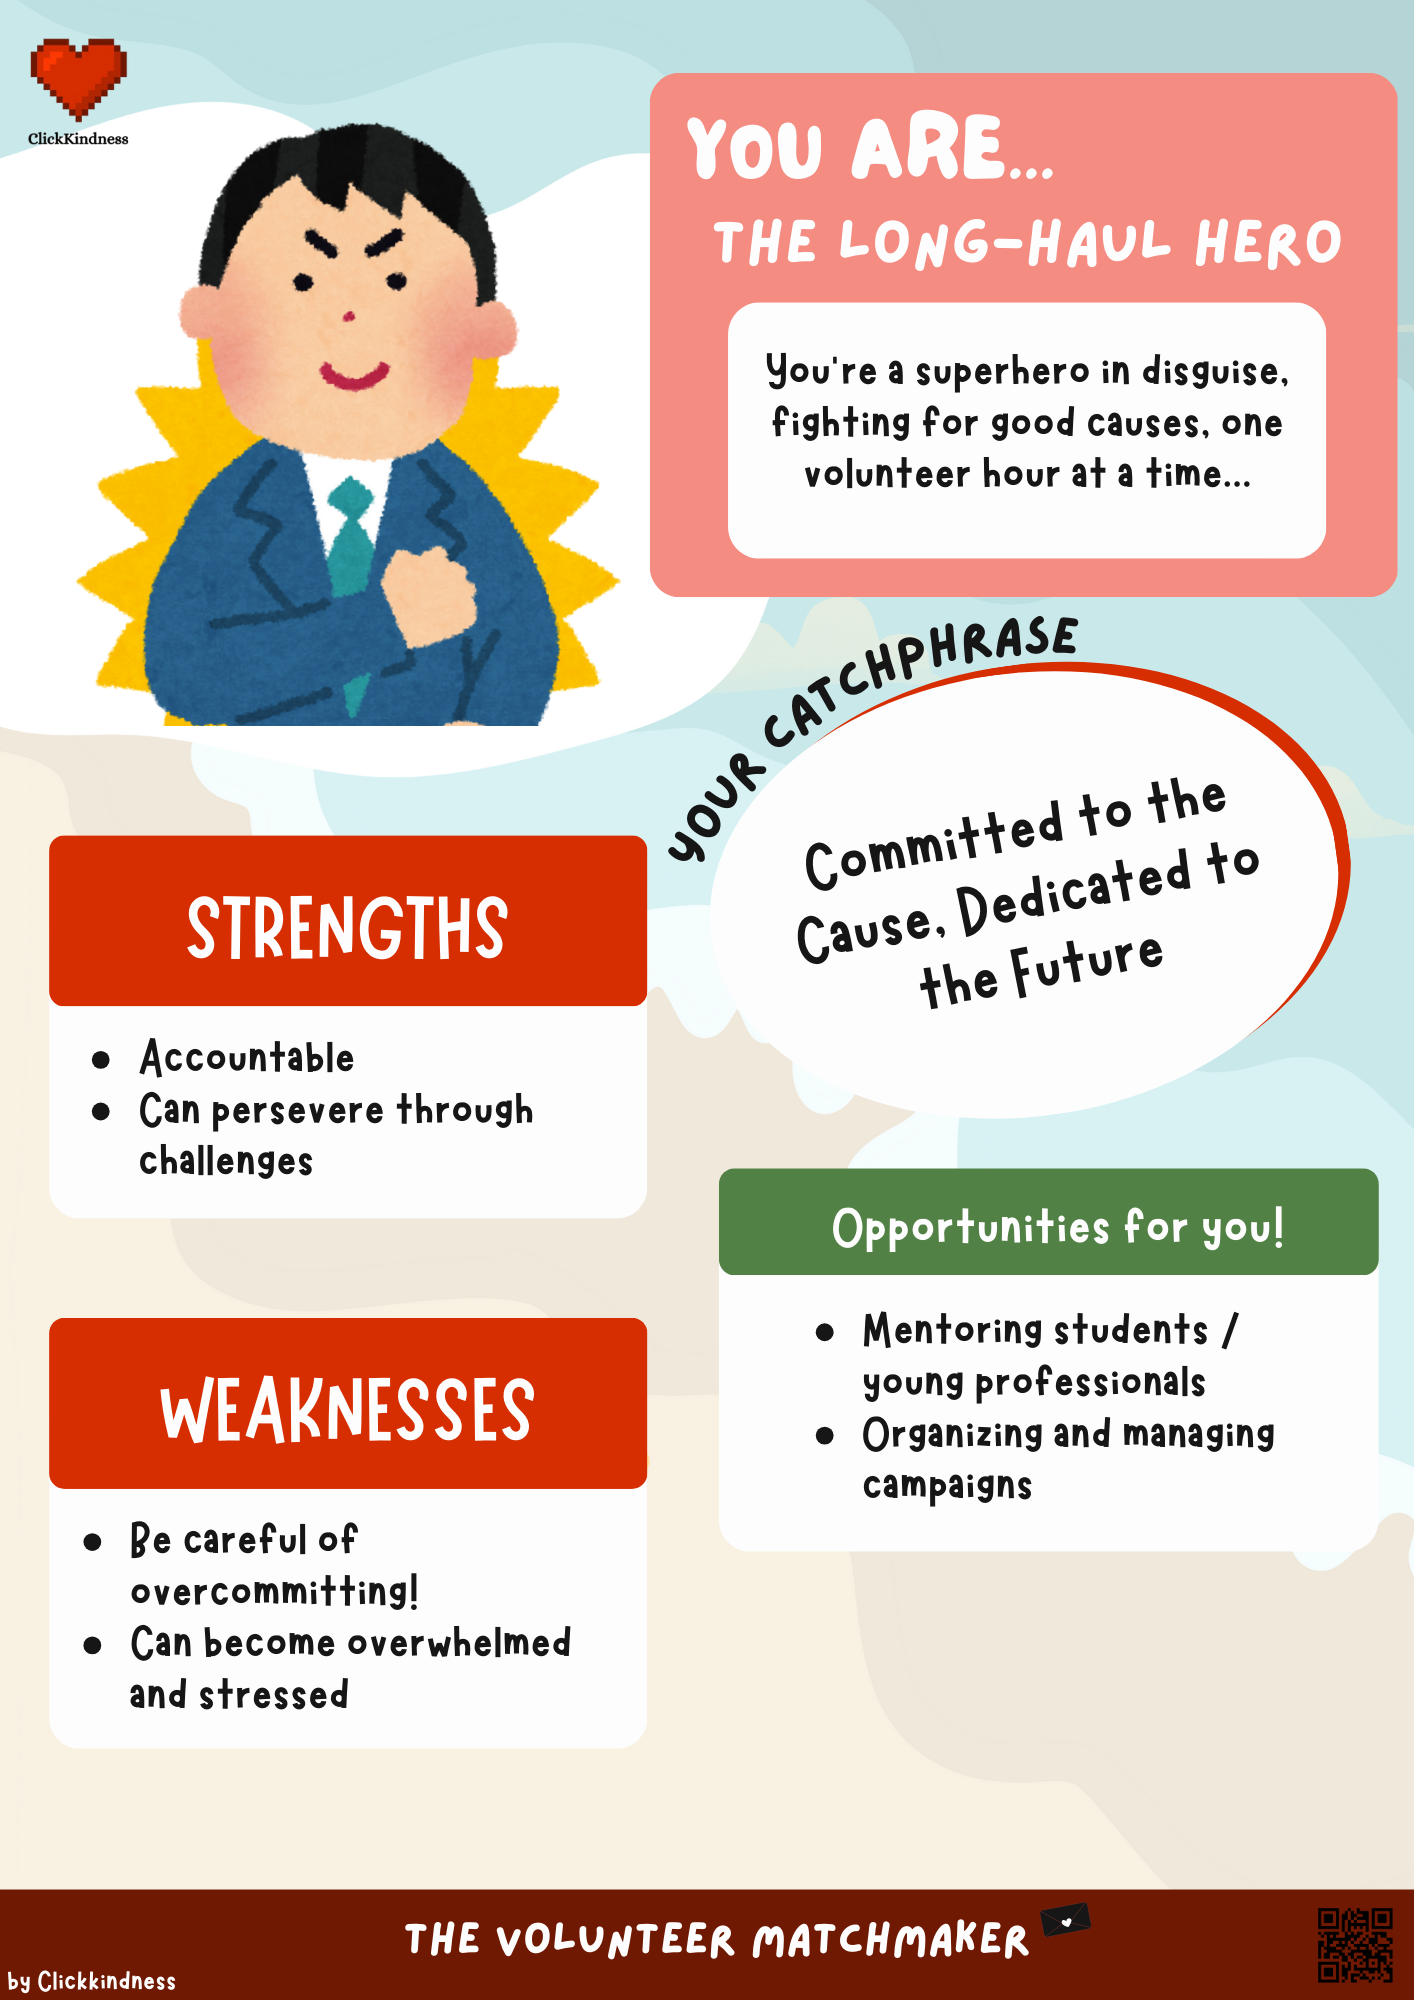
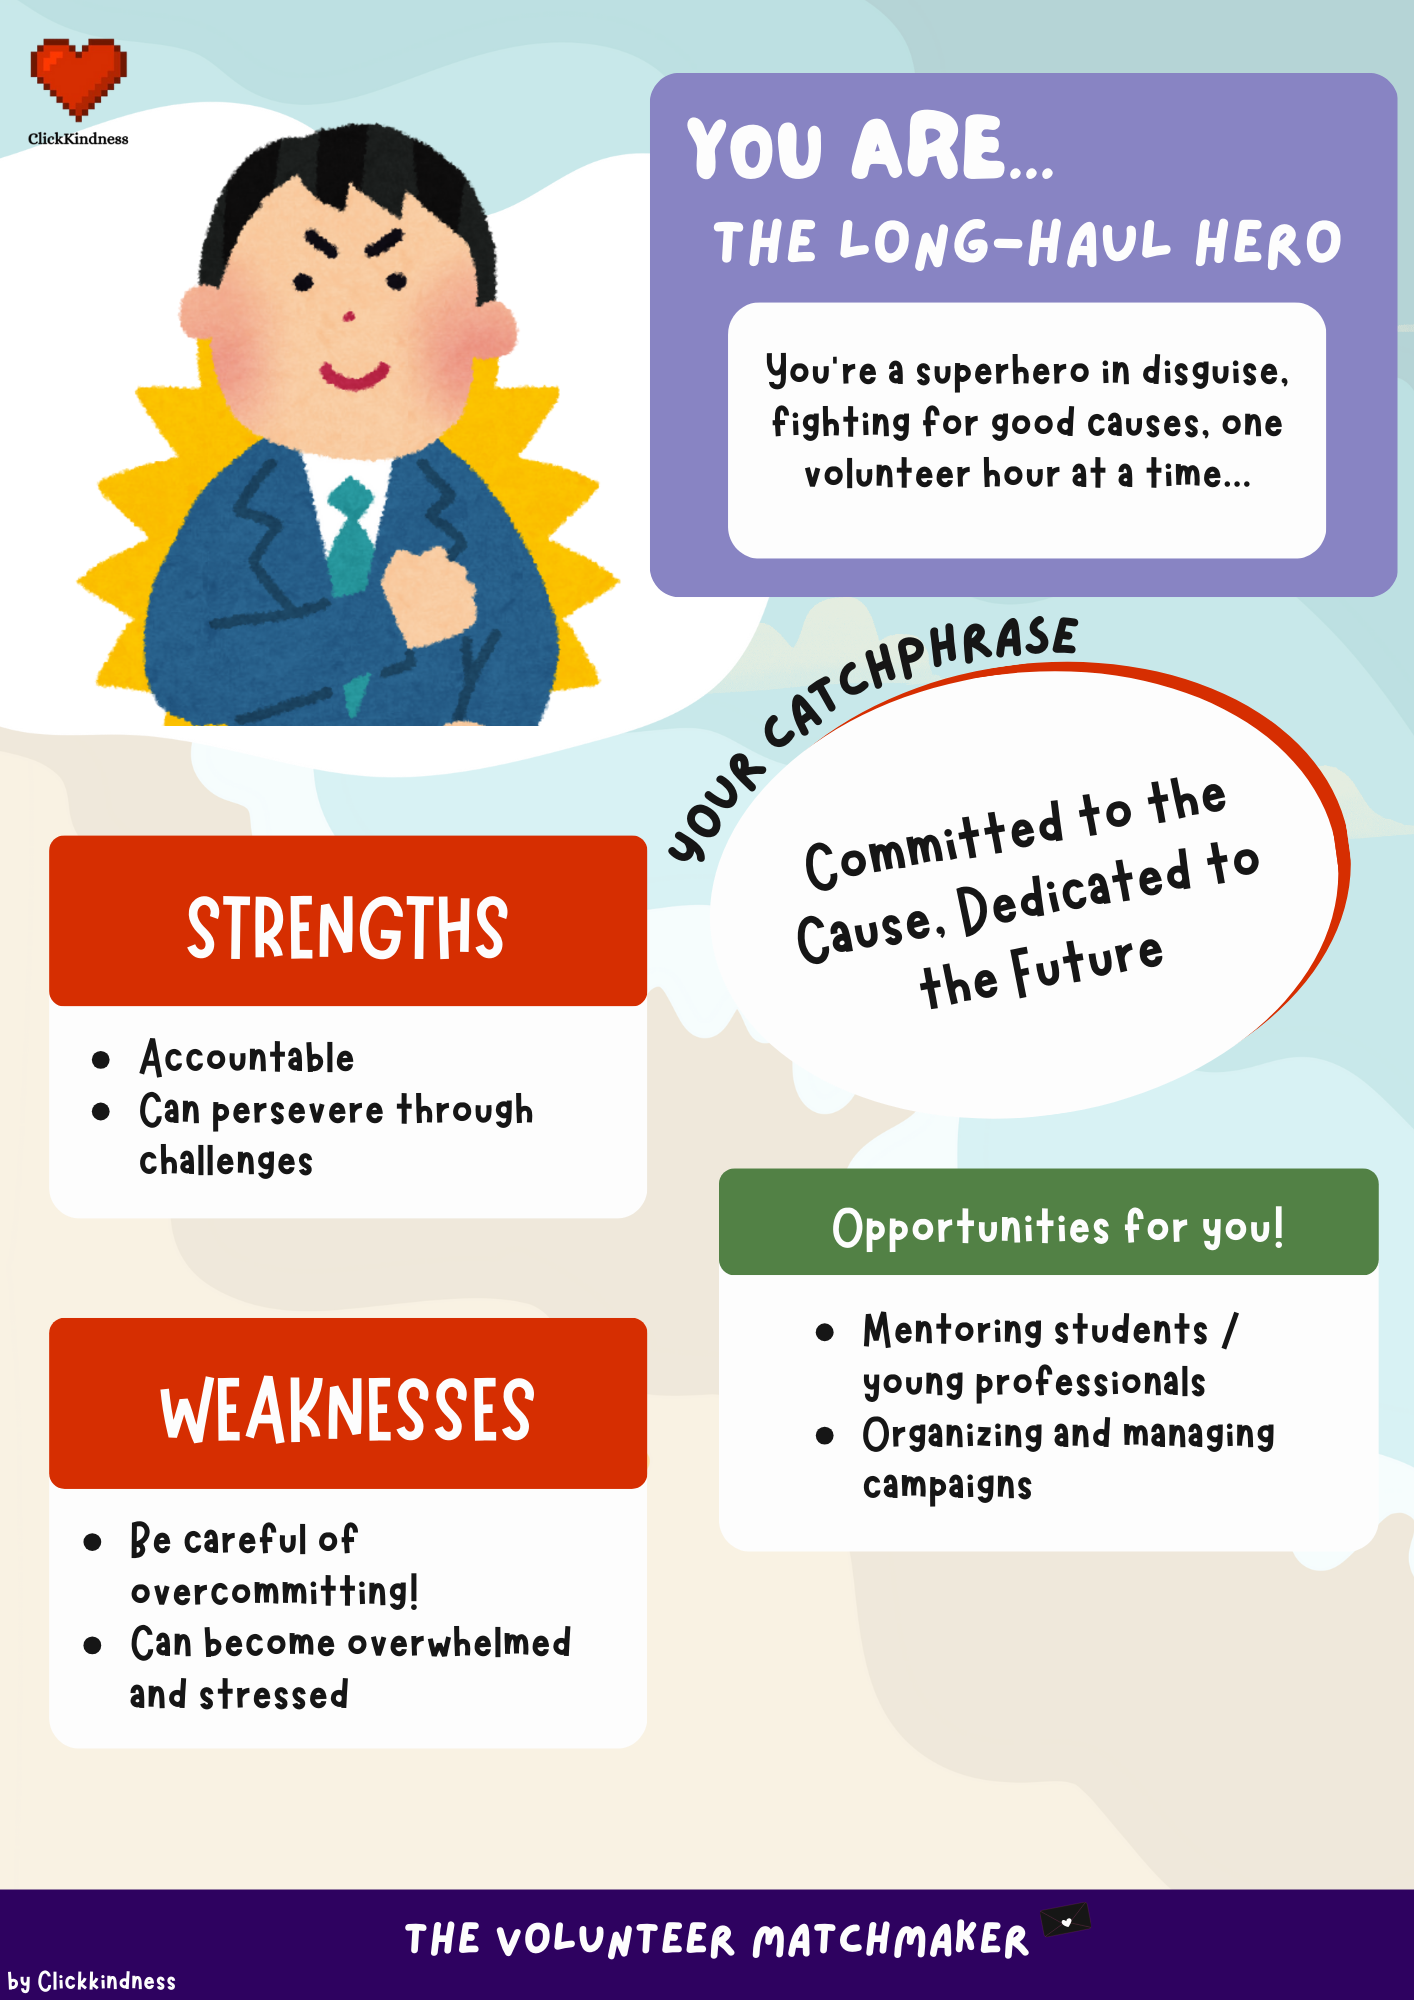
hehe

Changed region(s): [[0.4356, 0.031, 0.9958, 0.31], [0.0, 0.93, 1.0, 1.0]]

diff --git a/Quiz.css b/Quiz.css
@@ -3,7 +3,7 @@ html {
 }
 
 body {
-    background: #FFF4EC;
+    background: #ffffff;
     padding: 50px 0;
     margin: 0 auto;
     display: flex;
@@ -126,17 +126,17 @@ header img {
     font-weight: 600;
     padding: 1rem 6rem;
     text-align: center;
-    border: 0.1rem solid #FFD989;
+    border: 0.1rem solid #8884c3;
     text-decoration: none;
     font-family: 'Roboto', sans-serif;
     color: #3B2921;
-    background-color: #FFD989;
+    background-color: #8884c3;
     border-radius: 37px;
 }
 
 #begin-quiz:hover {
         cursor: pointer;
-        background-color: #FFCD64;
+        background-color: #2E0260;
         color: #fbfbfb;
         transform: none;
         transition: transform 150ms;
@@ -152,19 +152,19 @@ header img {
     width: 500px;
     height: 5rem;
     text-align: center;
-    border: 0.1rem solid #FFD989;
+    border: 0.1rem solid #8884c3;
     margin:auto;
     margin-bottom: 2rem;
     text-decoration: none;
     font-family: 'Roboto', sans-serif;
     color: #3B2921;
-    background-color: #FFD989;
+    background-color: #8884c3;
     border-radius: 37px;
 }
 
 .choices:hover {
     cursor: pointer;
-    background-color: #FFCD64;
+    background-color: #2E0260;
     color: #fbfbfb;
     transform: none;
     transition: transform 150ms;
@@ -177,22 +177,22 @@ header img {
     width: 200px;
     height: 45px;
     text-align: center;
-    border: 0.1rem solid #FFD989;
+    border: 0.1rem solid #8884c3;
     margin-bottom: 1rem;
     text-decoration: none;
     font-family: 'Roboto', sans-serif;
     color: #3B2921;
-    background-color: #FFD989;
+    background-color: #8884c3;
     border-radius: 37px;
 }
 
 .share-button {
-    background-color:#FFD989;
+    background-color:#8884c3;
 }
 
 #back-to-home:hover,.share-button:hover {
-    background-color:#FFCD64;
-    border-color: #FFCD64;
+    background-color:#2E0260;
+    border-color: #2E0260;
     color: #fbfbfb;
 }
 
@@ -355,18 +355,18 @@ header img {
         padding: 8px;
         width: 180px;
         text-align: center;
-        border: 0.1rem solid #FFD989;
+        border: 0.1rem solid #8884c3;
         text-decoration: none;
         font-family: 'Roboto', sans-serif;
         color: #3B2921;
-        background-color: #FFD989;
+        background-color: #8884c3;
         border-radius: 37px;
         margin-top: 50px;
     }
 
     #begin-quiz:hover {
         cursor: pointer;
-        background-color: #FFCD64;
+        background-color: #2E0260;
         color: #fbfbfb;
         transform: none;
         transition: none;
@@ -386,20 +386,20 @@ header img {
         width: 320px;
         height: 50px;
         text-align: center;
-        border: 0.1rem solid #FFD989;
+        border: 0.1rem solid #8884c3;
         margin:auto;
         margin-bottom: 15px;
         text-decoration: none;
         font-family: 'Roboto', sans-serif;
         color: #3B2921;
-        background-color: #FFD989;
-        border-color: #FFD989;
+        background-color: #8884c3;
+        border-color: #8884c3;
         border-radius: 37px;
      }
 
      .choices:hover {
         cursor: pointer;
-        background-color: #FFCD64;
+        background-color: #2E0260;
         color: #fbfbfb;
         transform: none;
         transition: none;
@@ -411,17 +411,17 @@ header img {
         width: 150px;
         height: 40px;
         text-align: center;
-        border: 0.1rem solid #FFD989;
+        border: 0.1rem solid #8884c3;
         margin-bottom: 1rem;
         text-decoration: none;
         font-family: 'Roboto', sans-serif;
         color: #3B2921;
-        background-color: #FFD989;
+        background-color: #3124e4;
         border-radius: 37px;
     }
     
     .share-button {
-        background-color:#FFD989;
+        background-color:#8884c3;
     }    
     
     /*Add margin between the buttons */

diff --git a/FruitQuiz.js b/FruitQuiz.js
@@ -137,7 +137,7 @@ function displayQuiz() {
             "qn 10.png",
             "qn 11.png",
             "qn 12.png",
-            "loading.gif",
+            "Loading (2).gif",
         ];
         const questionImageElement = document.getElementById('question-image');
         questionImageElement.src = imageURLs[questionIndex];
